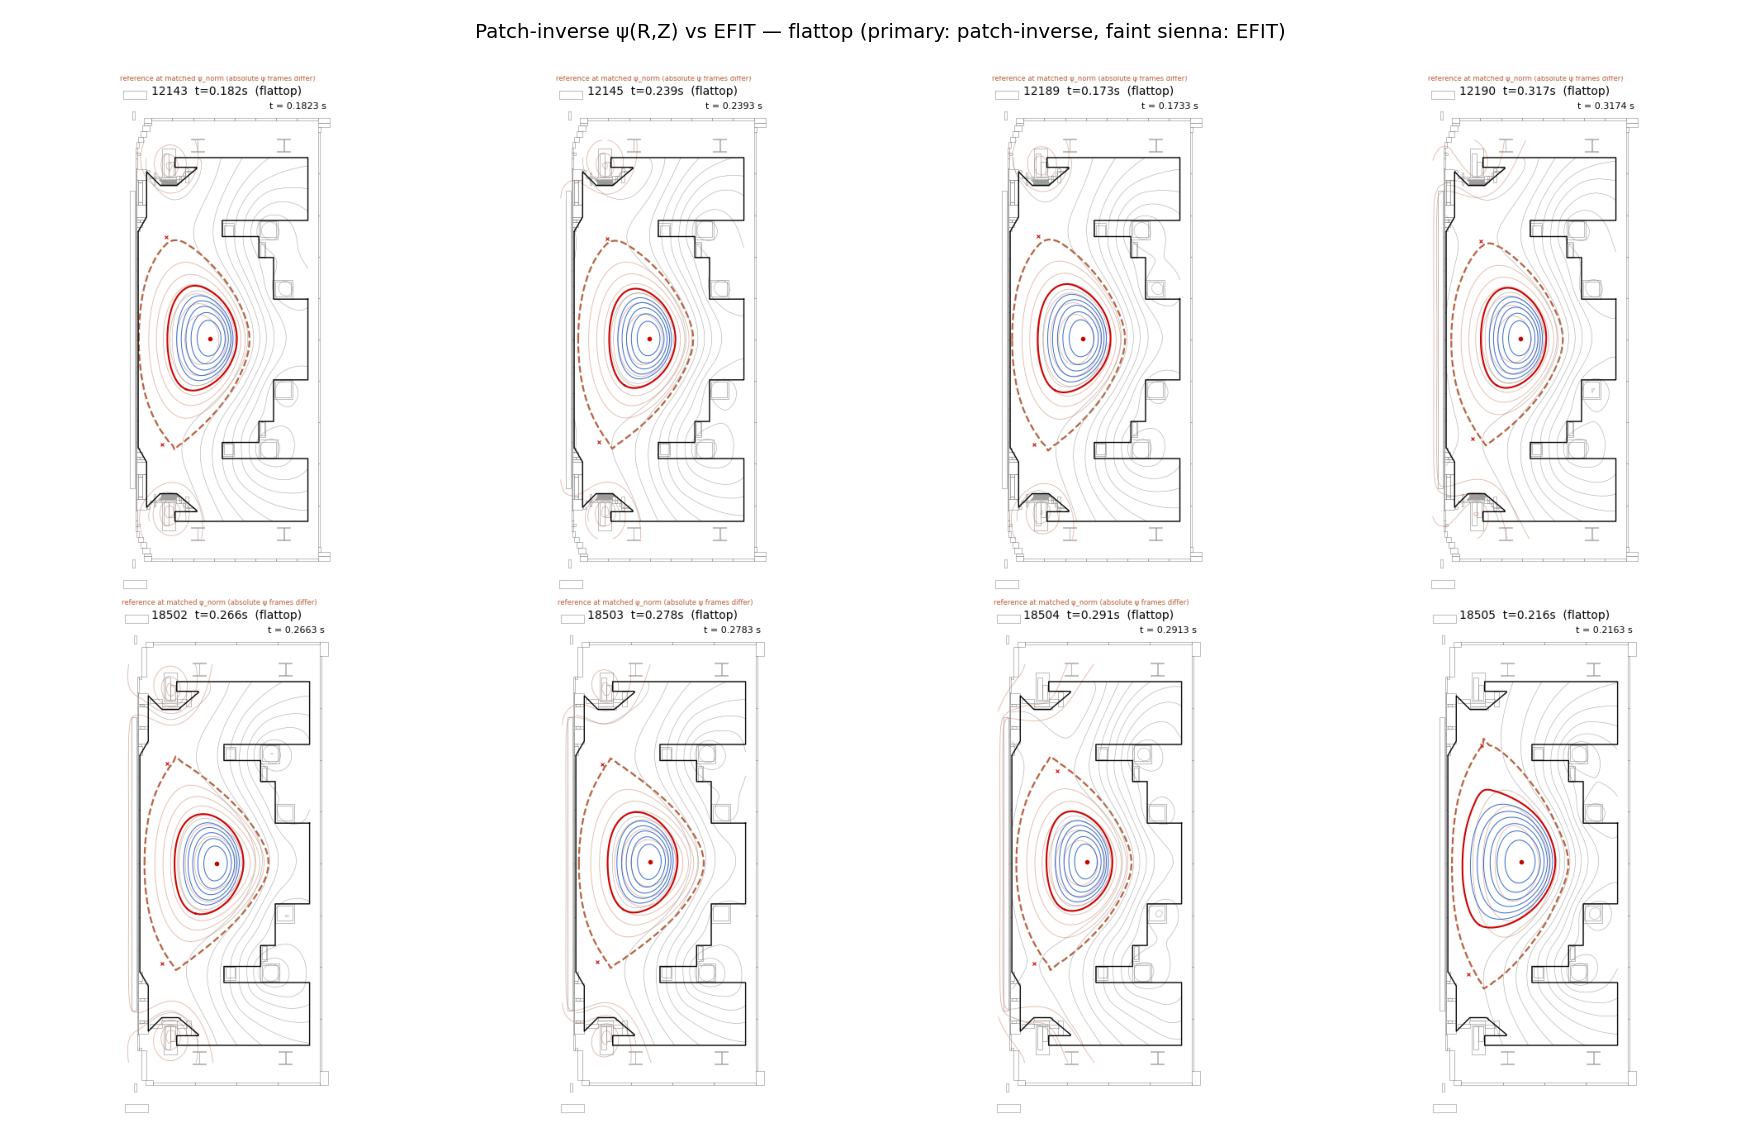
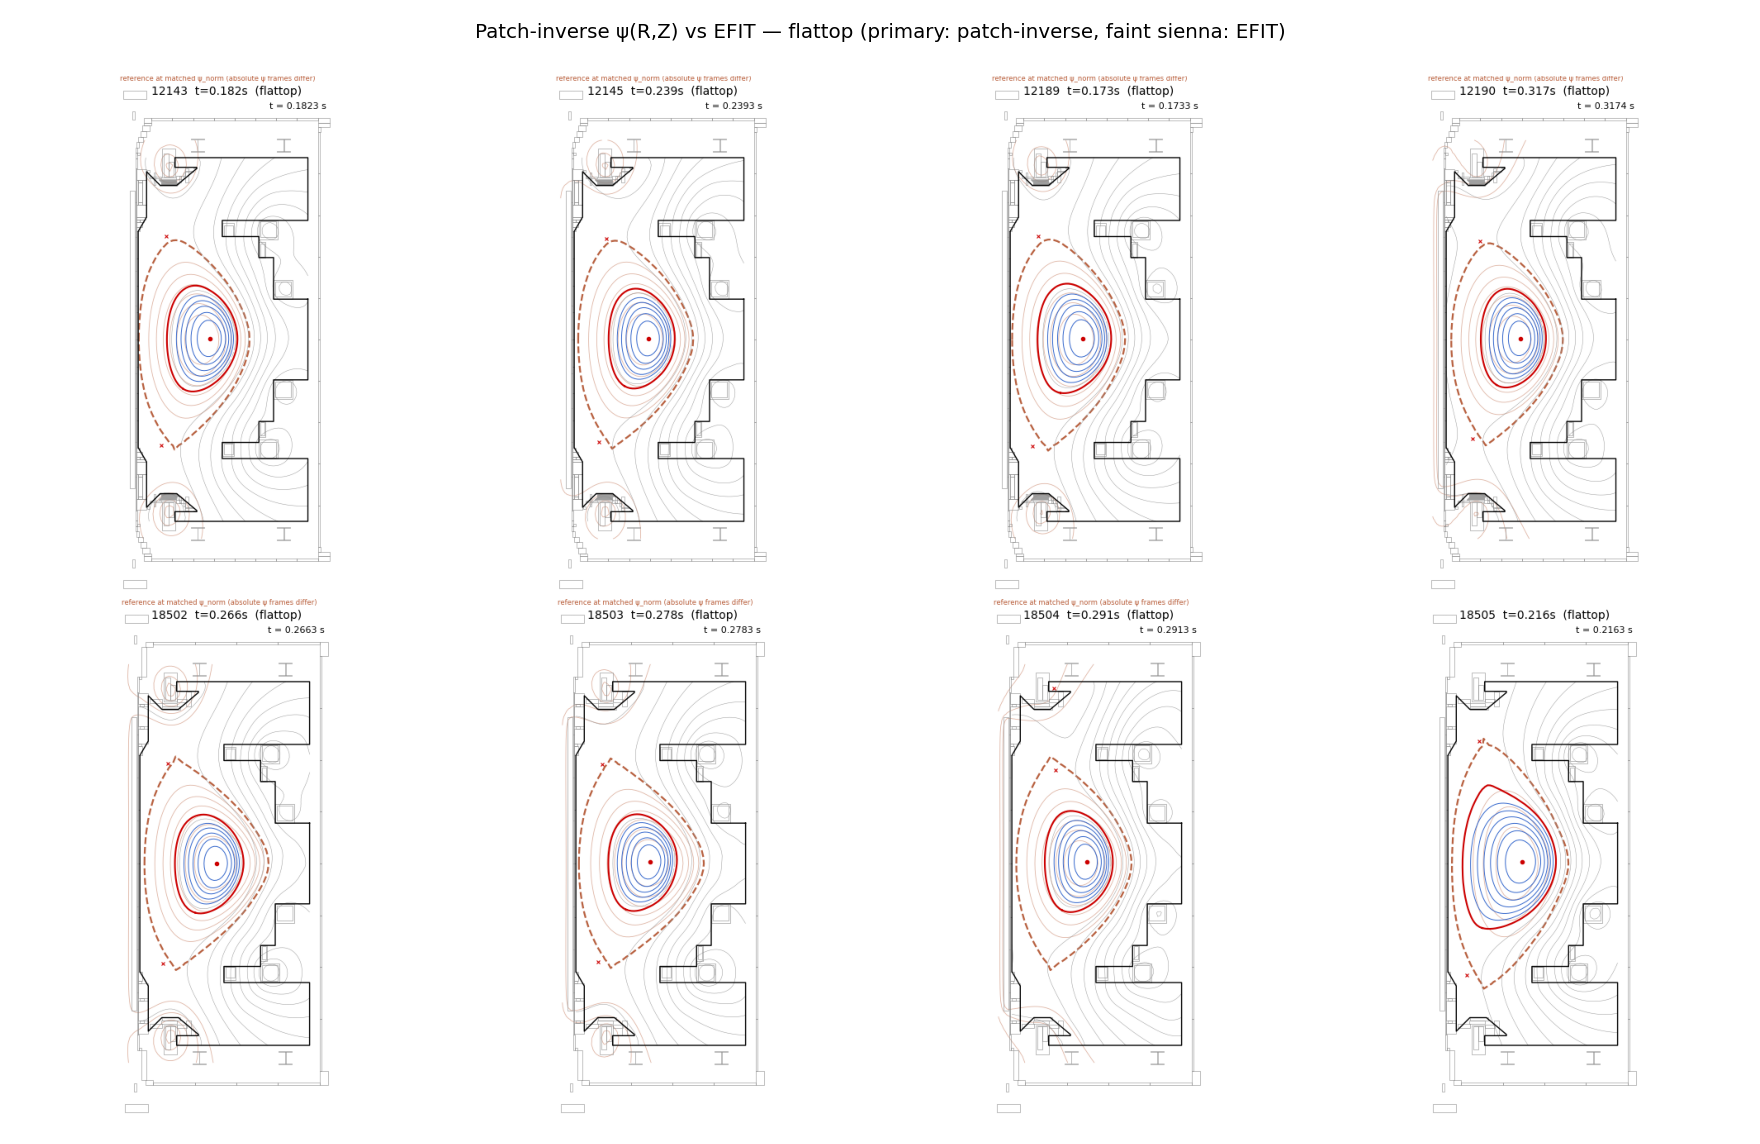
fix(latent): align flux-map report inverse config to the gate's connectivity default
patch_flux_map_report.py ran the winner inverse with connectivity=None while
patch_gate_eval.py's CLI default is connectivity="locality" — the published
flux-map exhibit was regularised differently from the gate it is meant to
illustrate. Re-rendered fig-flux-maps-{rampup,flattop}.png under the aligned
config (aggregate medians barely move: axis 6.47->6.7 cm, LCFS 13.54->13.32 cm,
psiN=0.5 13.82->13.7 cm — connectivity is not the dominant lever here, but the
exhibit now matches what the gate scores).

diff --git a/scripts/patch_flux_map_report.py b/scripts/patch_flux_map_report.py
@@ -63,13 +63,17 @@ ARTIFACTS = Path("imas_ambix/latent/artifacts/patch_gate")
 FIGURES = Path("docs/figures/patch-current-force-balance")
 L1_ROOT = Path("/work/projects/imas_gpu/mast/level1/shots")
 
-# THE P3 winner config (used verbatim, per the gate).
+# THE P3 winner config (used verbatim, per the gate).  connectivity="locality"
+# matches patch_gate_eval's --connectivity default — an exhibit must show the
+# same regularisation the gates score, not InverseConfig's bare class default
+# (connectivity=None), which would use a different structure-residual term.
 WINNER = InverseConfig(
     policy="discrepancy",
     lambda_fb=3.0,
     misfit_ratio=1.5,
     lambda_max=100.0,
     iters=800,
+    connectivity="locality",
 )
 
 SNAP_TOL_S = 0.015  # snap a slice to the nearest efm all_times within 15 ms
